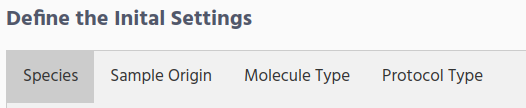
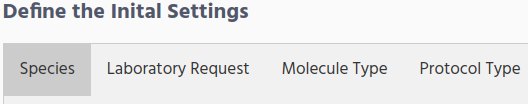
Updating initial settigs figures and text because of changing samples origin to Laboratory request

Changed region(s): [[0.0, 0.4038, 1.0, 1.0], [0.0, 0.0, 0.4867, 0.2885]]

diff --git a/massiveSequencing/wetlabManagerConfiguration.md b/massiveSequencing/wetlabManagerConfiguration.md
@@ -17,7 +17,7 @@ This section will show you how to define the initial data that Massive Sequencin
 During the installation already some data are loaded in database, but if you need to add extra information follow the instructions bellow.  
 There are 4 type of information that you need to define in the  **initial settings**
 *   Species
-*   Sample Origin
+*   Laboratory Request
 *   Molecule type
 *   Protocol type
 
@@ -34,28 +34,40 @@ Write the specie name and click on the Submit button.
 
 As you can see on the right side "human" and "mouse" species are already defined. This was done during the installation.
 
-### Samples Origin
-Define the location from the sample could came from, by clicking on the "Sample Origin" Tab.
+### Laboratory Request
+Define the location (Laboratory/Organization/Institution) from the sample could came from, by clicking on the "Sample Origin" Tab.
 
-![](../images/wetlab_configuration/samples_origin_form.png)
+![](../images/wetlab_configuration/laboratory_request_form.png)
 
-There are 3 fields that you need to fill in:
-*   New Origin
-*   Origin coding name
-*   Location data
+There are several fields that you need to fill in:
+*   Define new Laboratory/Organization
+*   Define Laboratory/organization coding name
+*   Department Unit
+*   Contact Name
+*   Contact Phone
+*   Email contact
+*   Address
 
-**New Origin** is the organization/hospital name who sends the sample to your organization.
 
-**Coding name** is any short name that can identify the origin of the sample.
+**Define new Laboratory/Organization** is the Laboratory/Organization/hospital name from where you receive the samples.
 
-**Location data** is the country/Area which he origin is located.
+**Define Laboratory/organization coding name** It is the short code name that you will see later on when defining new sample in the "Lab request" column.
 
-For example if you receives samples from the Metropolitan Hospital at New York. You could define the samples origin fields like this:
-*   New Origin. **Metropolitan Hospital**
-*   Origin coding name. **Metropolitan**
-*   Location data. **New York**
+**Department Unit** Department or unit where the sample is collected to send to you
 
-On the right side you will see the Samples Origin that have been defined so far.
+**Contact Name** Contact name of the person to contact in case of any issue with the samples
+
+**Contact Phone** Phone number of the contact person
+
+**Email contact** The email of the contact person
+
+**Address** The Laboratory/Organization address
+
+
+Bellow the Laboratory Request form you can see the the laboratories/Institutions that are defined so far. The figure display as an example the definition of the Laboratory.
+
+![](../images/wetlab_configuration/laboratory_request_defined.png)
+
 ### Molecule Type
 During the installation 2 Molecule types were defined.
 *   DNA

diff --git a/massiveSequencing/investigatorWorkflow.md b/massiveSequencing/investigatorWorkflow.md
@@ -267,7 +267,7 @@ When creating the Sample Sheet using the Illumina Experiment Manager (IEM) softw
 
 The name of the project has no any relation with the "sample project" that we mention at [Recording additional sample information](#recording-additional-sample-information). You can name with the same name, because they are handled in complete different way inside iSkyLIMS.
 
-To handle different organization requirements, it is possible to repeat the project name in different runs. To unable this option you have to set this "ON".
+To handle different organization requirements, it is possible to repeat the same project name in different runs. To allow this option you have to set the parameter PROJECTS_ALLOWED_IN_MULTIPLE_RUNS to "TRUE".
 
 **Description**. This field **must have the userid** of the responsible of the library preparation sample. The importance of this field is that we are going to link the sample with the user, to perform the user statistics.
 
@@ -297,4 +297,3 @@ The samples which were not defined with the previous information will be discard
 **Verify that userID** is set for each sample on "Decription" column, and it is assigned to the right user. If case that there is not userID or you want to assign to different user, select the right one from the selection list.
 
 After submit the button you will get the confirmation that the information was successful recorded.
- 

diff --git a/AdminConfiguration.md b/AdminConfiguration.md
@@ -120,10 +120,8 @@ To solve this situation, the sharing list utility is created.  Each user can sel
 
 Then in the previous scenario, when the owner sample user adds, in their shared list, the name of the responsible for requesting a service, these samples will be displayed, for selecting in the form to create the service request.
 
-
-## [Massive Sequencing Admin Configuration](massiveSequencing/adminConfiguration.md)
+## [Massive Sequencing Steps Configuration](massiveSequencing/massiveSequencing.md)
 Click on the link above to continue the configuration on massive sequencing
 
-
-## [Admin configuration in Requesting services](massiveSequencing/adminConfiguration.md)
-Click on the link above to continue the configuration on massive sequencing
+## [Requesting services Configuration](requestingServices/requestingServices.md)
+Click on the link above to continue the configuration on requesting Services

diff --git a/massiveSequencing/massiveSequencing.md b/massiveSequencing/massiveSequencing.md
@@ -1,4 +1,4 @@
-# Massive Sequencing Configuration
+# Massive Sequencing Steps Configuration
 
 To provide the flexibility, that we want to give to the "Massive Sequencing" module, is necessary to define fields, and many others parameters in order that you can have right parameters that you need to use.
 
@@ -12,8 +12,7 @@ Having this on mind we have split the configuration in 3 type of users:
 *   **Wetlab Manager** to fill all  information related to the samples
 *   **Investigator** for adding the kit lot numbers used during the sample preparations
 
-[Massive Sequencing (Admin configuration)](adminConfiguration.md)
-
+[Wetlab Admin configuration](adminConfiguration.md)
 
 [Wetlab Manager Configuration](wetlabManagerConfiguration.md)
 

diff --git a/massiveSequencing/adminConfiguration.md b/massiveSequencing/adminConfiguration.md
@@ -1,4 +1,4 @@
-# Massive Sequencing Admin Configuration
+# Wetlab Admin configuration
 
 
 When selecting the available options in the user forms, these values require that they are created in advance, to allow them to be selected. These forms are available only If the logged user has manager permission.

diff --git a/requestingServices/adminConfiguration.md b/requestingServices/adminConfiguration.md
@@ -1,3 +1,3 @@
-# Admin Configuration
+# Requesting Service Admin Configuration
 
 ## test

diff --git a/requestingServices/requestingServices.md b/requestingServices/requestingServices.md
@@ -1,0 +1,3 @@
+#  Requesting Services
+
+test
